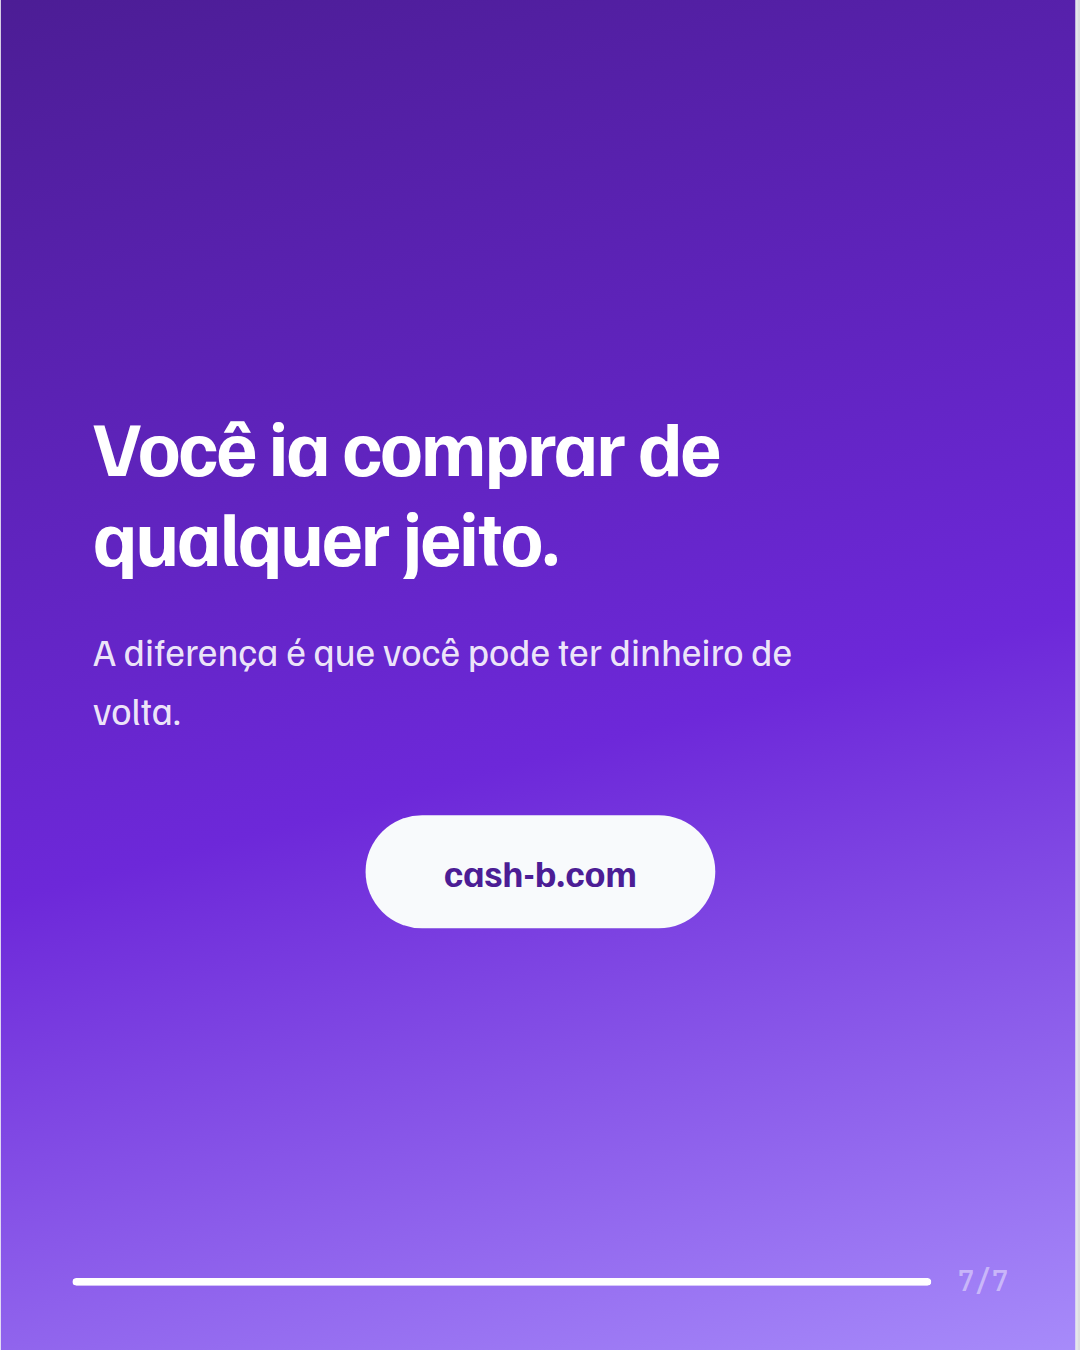
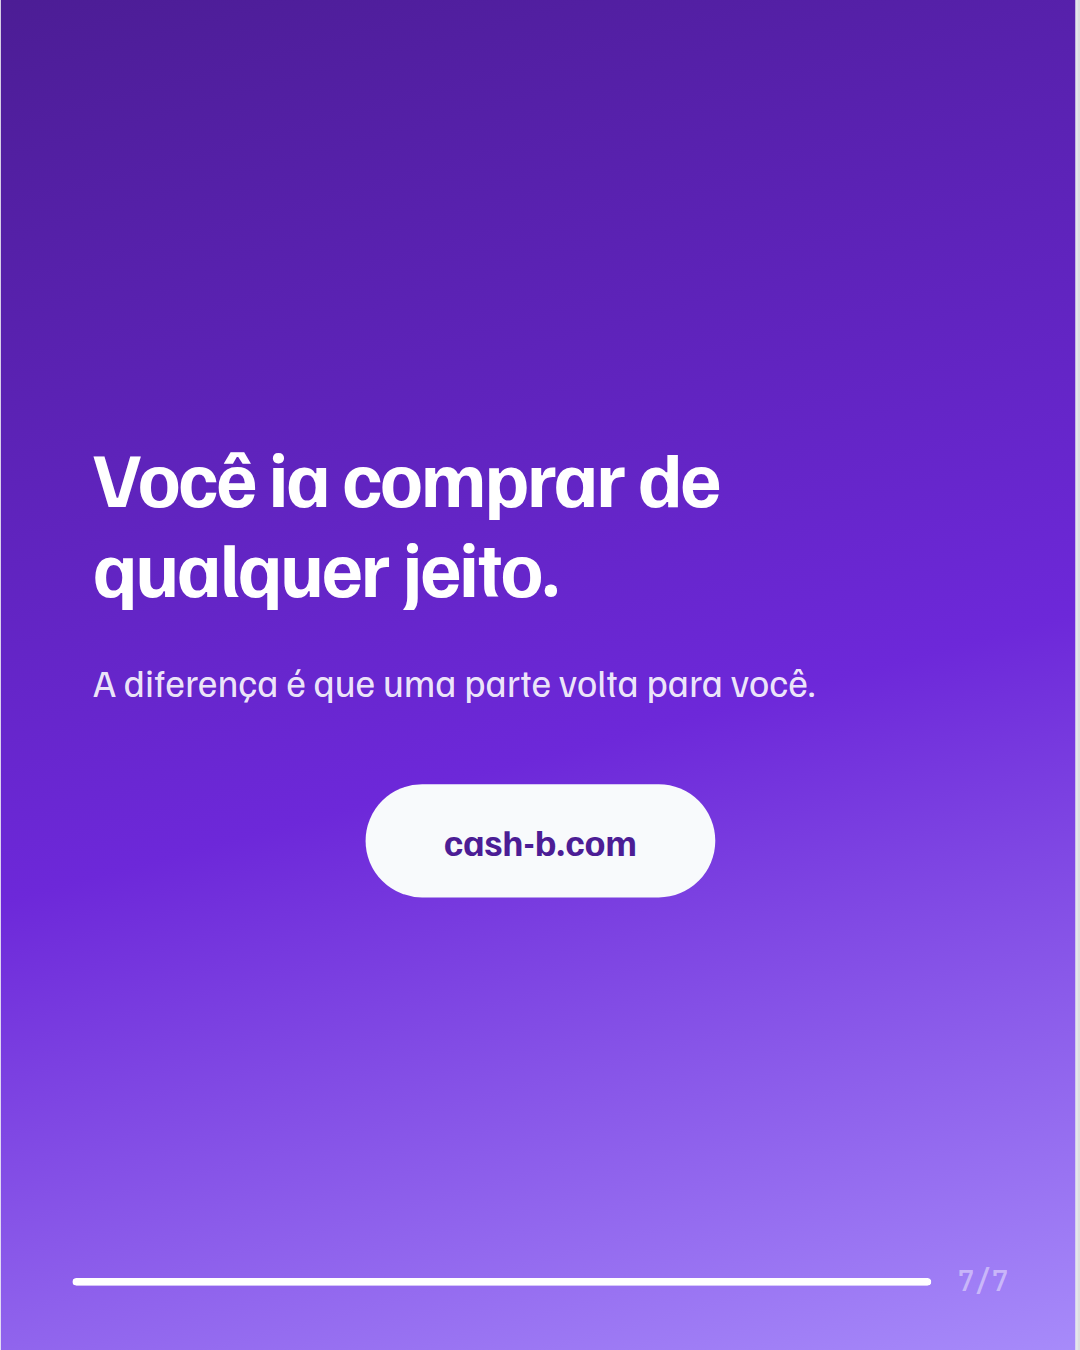
Deixa o fecho do carrossel de gasto anual afirmativo
"você pode ter dinheiro de volta" caía na construção condicional que o VOZ.md
proíbe para o cashback base: quem compra pelo link recebe, não é possibilidade.
Agora fecha em "A diferença é que uma parte volta para você".

Claude-Session: https://claude.ai/code/session_017WZWLEiMQvHUst5KUYseHY

Changed region(s): [[0.0917, 0.3111, 0.7639, 0.56], [0.3361, 0.56, 0.6722, 0.7156]]

diff --git a/marketing/instagram/carrossel-gasto-anual/preview.html b/marketing/instagram/carrossel-gasto-anual/preview.html
@@ -289,7 +289,7 @@ body {
                         padding:44px 36px 52px;">
                 
     <div style="font-family:Familjen; font-size:30px; font-weight:700; line-height:1.16; letter-spacing:-0.025em; color:#fff;">Você ia comprar de qualquer jeito.</div>
-    <div style="font-family:Familjen; font-size:15px; color:rgba(255,255,255,0.9); margin-top:16px; line-height:1.55; max-width:300px;">A diferença é que você pode ter dinheiro de volta.</div>
+    <div style="font-family:Familjen; font-size:15px; color:rgba(255,255,255,0.9); margin-top:16px; line-height:1.55; max-width:300px;">A diferença é que uma parte volta para você.</div>
     
     <div style="display:flex; justify-content:center; margin-top:28px;">
         <div style="display:inline-flex; align-items:center; padding:13px 30px; background:#f8fafc;

diff --git a/marketing/instagram/gerar_carrossel_gasto_anual.py b/marketing/instagram/gerar_carrossel_gasto_anual.py
@@ -95,7 +95,7 @@ SLIDES = [
 
     Slide(BRAND_GRADIENT, f"""
     {titulo("Você ia comprar de qualquer jeito.", 30)}
-    {subtitulo("A diferença é que você pode ter dinheiro de volta.", "rgba(255,255,255,0.9)", 300, 15)}
+    {subtitulo("A diferença é que uma parte volta para você.", "rgba(255,255,255,0.9)", 300, 15)}
     {cta_pill()}
     """, False, seta=False),
 ]
